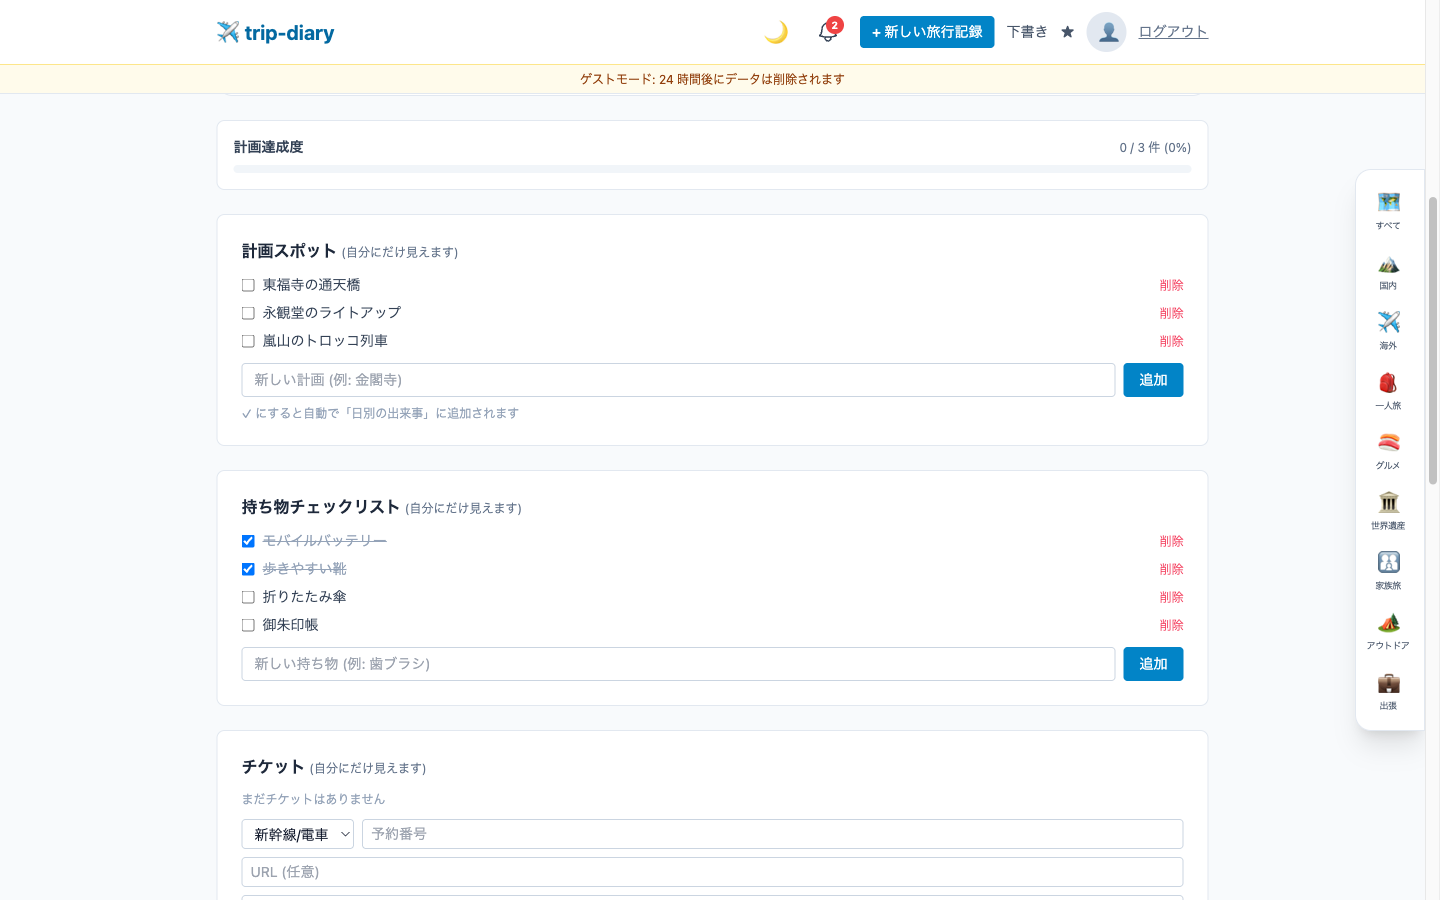
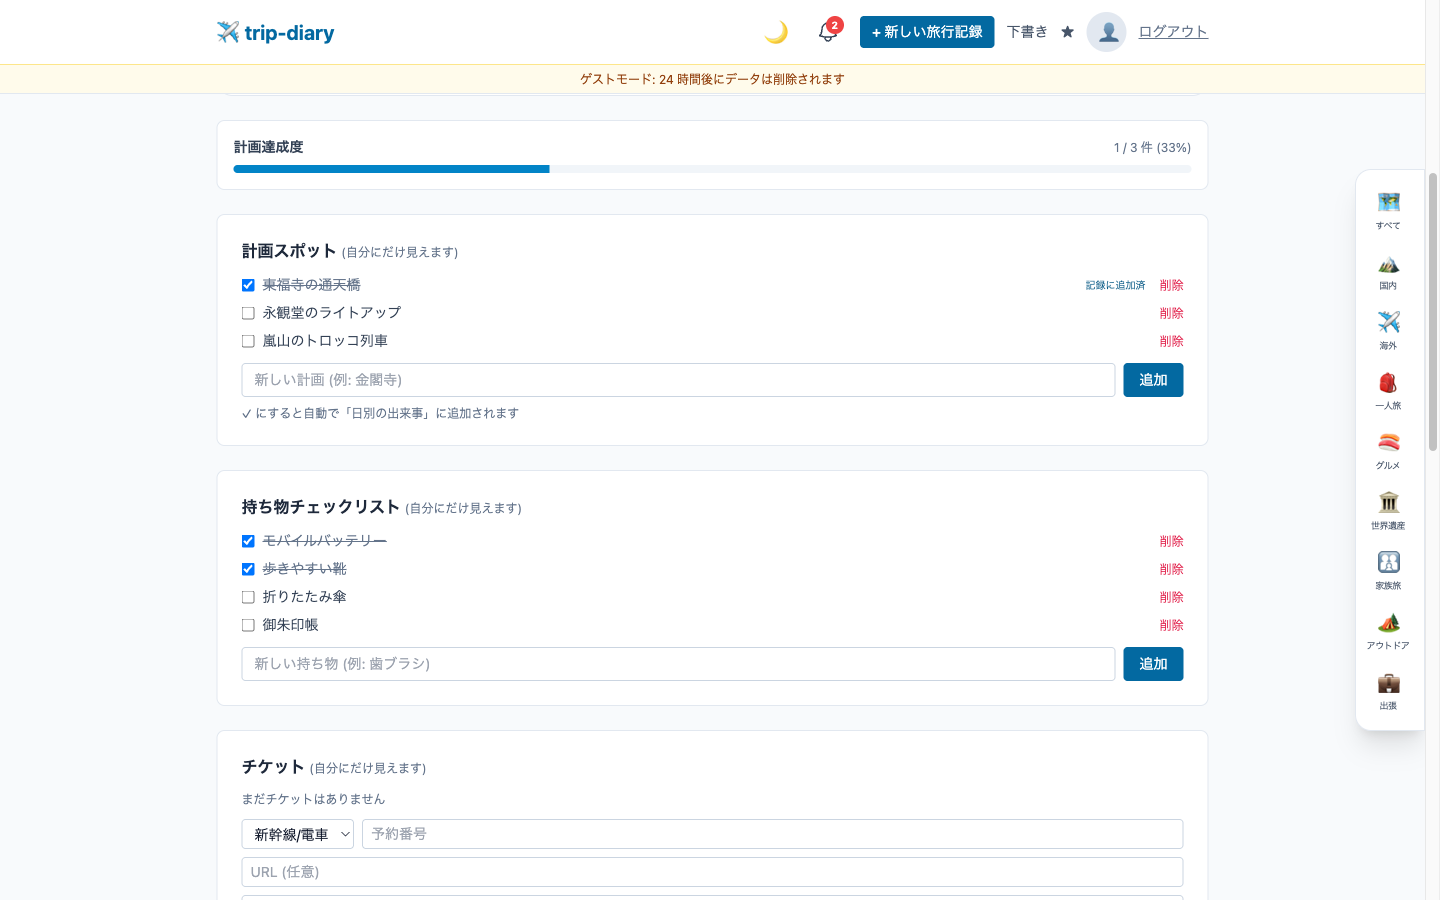
docs: README とテスト計画書の件数とスクリーンショットを最新にする (#202)
README: 品質の担保の Vitest を 75 件・Line 7.43%・composables 62.87%
に、E2E を流しているブラウザ (PR は Chromium、main は 3 つ) に、画面の
テストの説明を今の対象に直した。公開環境の 6 画面で Lighthouse の
Accessibility が 100 (4 通り・2026-10-06 時点) であることを書いた。
テスト計画書 v1.9: §4 と Frontend の表に #187〜#200 で足した Vitest
を反映した (75 runs・16 files)。
04-plan.png: 計画の 1 件を済みにした状態で撮り直した (達成度の棒・
記録に追加済の印・新しい削除の色)。メタデータは入っていない。

Closes #192

diff --git a/README.md b/README.md
@@ -87,12 +87,13 @@ Ruby on Rails 8.1 (API) + Nuxt 4 + MySQL 8 で作っています。
 | 種別 | 件数 | カバレッジ |
 |---|---|---|
 | Backend (Minitest) | 363 件 | Line 94.78% / Branch 79.64% |
-| Frontend (Vitest) | 63 件 | 全体 Line 7.26% / composables Line 62.01% |
-| E2E (Playwright) | smoke 1 件 | — |
+| Frontend (Vitest) | 75 件 | 全体 Line 7.43% / composables Line 62.87% |
+| E2E (Playwright) | smoke 1 件 (PR は Chromium、main は Chromium・WebKit・iPhone 14) | — |
 | 性能 (k6) | シナリオ 6 種 | — |
 
-- 数字は 2026-10-05 時点の実測です
-- Frontend の単体テストは composables とストアのほか、トップの画面と設定の静的な確認 (見出し・入力欄の名前・OGP) が対象です。画面の部品には単体テストが無く、E2E と手動の確認手順 ([docs/テスト計画書.md](docs/テスト計画書.md) §8) で確かめています
+- 数字は 2026-10-06 時点の実測です
+- Frontend の単体テストは composables とストアのほか、画面のテンプレートの構造 (トップ・ヘッダー・作成画面・旅行の詳細・エラーの画面の見出しと入力欄の名前、全部の画面の文字と背景の色の組み合わせ) と設定 (OGP) が対象です。画面の動きは、E2E と手動の確認手順 ([docs/テスト計画書.md](docs/テスト計画書.md) §8) で確かめています
+- 公開環境の 6 画面 (ログイン前のトップ・旅行の詳細・404、ゲストで入ったあとのトップ・作成画面・自分の旅行の詳細) で、Lighthouse の Accessibility が 100 です (スマホと PC、ライトとダークの 4 通り。2026-10-06 時点)
 - CI では rubocop・ESLint・Minitest・Vitest・Nuxt のビルド・brakeman・bundle-audit・npm audit をすべての PR で実行しています
 - セキュリティは [docs/セキュリティ自己監査.md](docs/セキュリティ自己監査.md) の観点で PR ごとに確認しています
 
